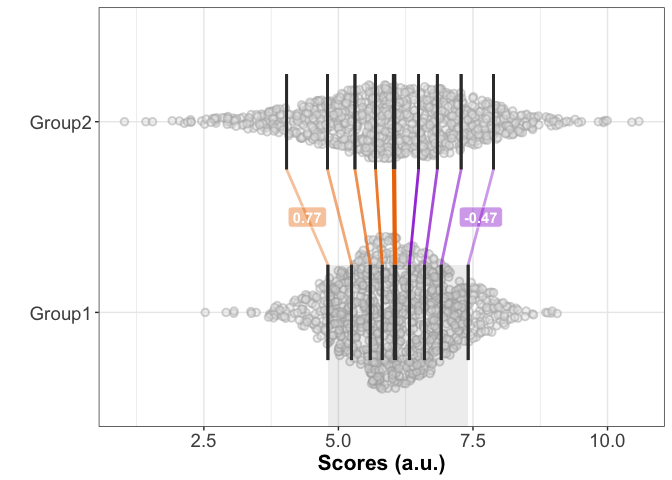
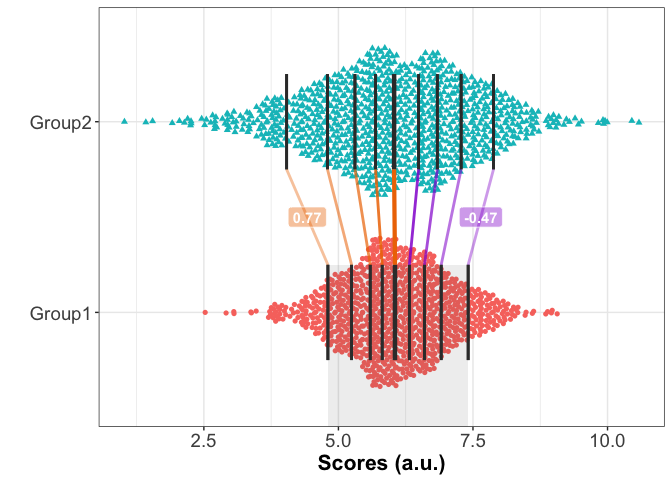
update README

Changed region(s): [[0.1562, 0.0938, 0.9062, 0.4062], [0.2812, 0.4688, 0.8438, 0.8438], [0.9375, 0.2188, 0.9688, 0.2812]]

diff --git a/README.md b/README.md
@@ -24,7 +24,7 @@ The approach behind the package is described here:
 
 `rogme` uses `ggplot2` for graphical representations, and the main statistical functions were developed by Rand Wilcox, as part of his [`WRS`](https://dornsife.usc.edu/labs/rwilcox/software/) package.
 
-The main tool in `rogme` is the shift function. A shift function shows the difference between the quantiles of two groups as a function of the quantiles of one group. For inferences, the function returns an uncertainty interval for each quantile difference. Currently, confidence intervals are computed using one of two percentile bootstrap techniques. Highest density intervals and [Bayesian bootstrap](https://github.com/rasmusab/bayesboot) intervals will be available soon.
+The main tool in `rogme` is the shift function. A shift function shows the difference between the quantiles of two groups as a function of the quantiles of one group. For inferences, the function returns an uncertainty interval for each quantile difference. Currently, confidence intervals are computed using one of two percentile bootstrap techniques. Highest density intervals and [Bayesian bootstrap](https://github.com/rasmusab/bayesboot) intervals will be available eventually.
 
 Shift function demo
 -------------------
@@ -49,7 +49,11 @@ First, we generate the 1D scatterplots for the two groups.
 #> scatterplots alone
 ps <- plot_scat2(df,
                  xlabel = "",
-                 ylabel = "Scores (a.u.)")
+                 ylabel = "Scores (a.u.)",
+                 alpha = 1,
+                 shape = 21,
+                 colour = "grey10",
+                 fill = "grey90") # scatterplots
 ps <- ps + coord_flip()
 ps
 ```
@@ -86,6 +90,7 @@ p <- plot_scat2(df,
                 symb_alpha = .5,
                 symb_col = c("grey70","grey70"),
                 symb_fil = c("grey90","grey90")) # scatterplots
+#> Warning: Ignoring unknown parameters: symb_alpha, symb_col, symb_fil
 
 p <- plot_dec_links(p, 
                     sf = sf,
@@ -111,3 +116,5 @@ cowplot::plot_grid(ps, p, psf, labels=c("A", "B", "C"), ncol = 1, nrow = 3,
 ```
 
 ![](README-files/README-unnamed-chunk-7-1.png)
+
[1 lines of base64/hex data omitted]
